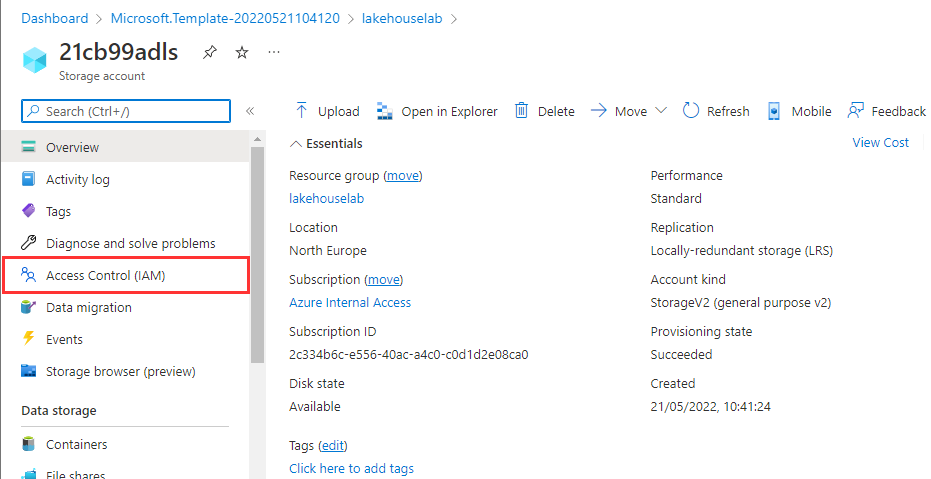
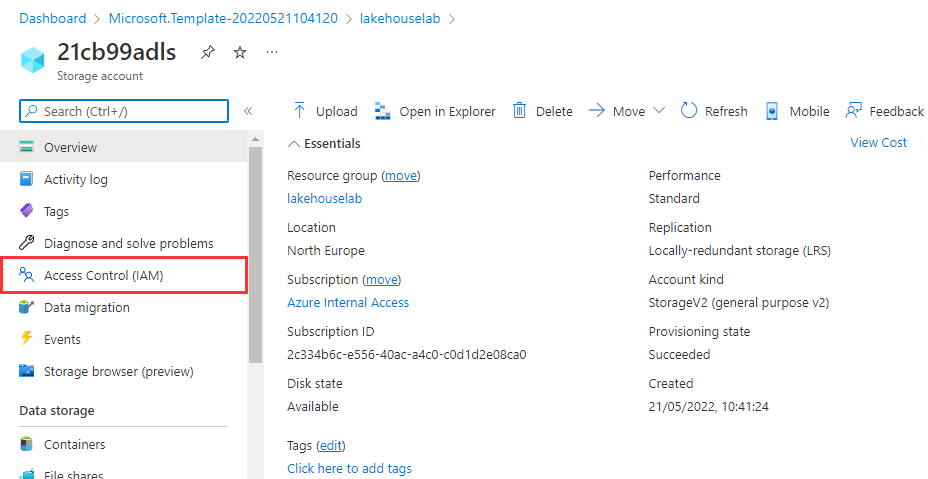
module00 images

diff --git a/modules/module00.md b/modules/module00.md
@@ -31,7 +31,7 @@ The following steps will deploy Azure resources that will be used as part of the
 
 4. The deployment should take approximately 5 minutes to complete. Once you see the message **Your deployment is complete**, click **Go to resource group**.
 
-    <kbd><img src="../images/module00/001.png" alt="Go to resource group"></kbd>
+    <kbd><img src="../images/module00/001.png" alt="Go to resource group" width="50%"></kbd>
 
 <div align="right"><a href="#module-00---lab-environment-setup">↥ back to top</a></div>
 
@@ -41,23 +41,23 @@ The following steps will elevate your account as an Azure AD administrator of th
 
 1. Navigate to the **SQL server**
 
-    <kbd><img src="../images/module00/002.png" alt="ALT"></kbd>
+    <kbd><img src="../images/module00/002.png" alt="ALT" width="50%"></kbd>
 
 2. Select **Azure Active Directory**
 
-    <kbd><img src="../images/module00/003.png" alt="ALT"></kbd>
+    <kbd><img src="../images/module00/003.png" alt="ALT" width="50%"></kbd>
 
 3. Click **Set admin**
 
-    <kbd><img src="../images/module00/004.png" alt="ALT"></kbd>
+    <kbd><img src="../images/module00/004.png" alt="ALT" width="50%"></kbd>
 
 4. Search for your account, select your account, click **Select** 
 
-    <kbd><img src="../images/module00/005.png" alt="ALT"></kbd>
+    <kbd><img src="../images/module00/005.png" alt="ALT" width="50%"></kbd>
 
 5. Click **Save**
 
-    <kbd><img src="../images/module00/006.png" alt="ALT"></kbd>
+    <kbd><img src="../images/module00/006.png" alt="ALT" width="50%"></kbd>
 
 <div align="right"><a href="#module-00---lab-environment-setup">↥ back to top</a></div>
 
@@ -67,35 +67,35 @@ This role assignment is required to ensure that your account has sufficient perm
 
 1. Navigate to the **Storage account**
 
-    <kbd><img src="../images/module00/007.png" alt="ALT"></kbd>
+    <kbd><img src="../images/module00/007.png" alt="ALT" width="50%"></kbd>
 
 2. Select **Access Control (IAM)**
 
-    <kbd><img src="../images/module00/008.png" alt="ALT"></kbd>
+    <kbd><img src="../images/module00/008.png" alt="ALT" width="50%"></kbd>
 
 3. Click **Add role assignment**
 
-    <kbd><img src="../images/module00/009.png" alt="ALT"></kbd>
+    <kbd><img src="../images/module00/009.png" alt="ALT" width="50%"></kbd>
 
 4. Select `Contributor` and click **Next**
 
-    <kbd><img src="../images/module00/010.png" alt="ALT"></kbd>
+    <kbd><img src="../images/module00/010.png" alt="ALT" width="50%"></kbd>
 
 5. Click **Select members**
 
-    <kbd><img src="../images/module00/015.png" alt="ALT"></kbd>
+    <kbd><img src="../images/module00/015.png" alt="ALT" width="50%"></kbd>
 
 6. Search for your account, select your account, click **Select** 
 
-    <kbd><img src="../images/module00/011.png" alt="ALT"></kbd>
+    <kbd><img src="../images/module00/011.png" alt="ALT" width="50%"></kbd>
 
 7. Click **Review + assign**
 
-    <kbd><img src="../images/module00/012.png" alt="ALT"></kbd>
+    <kbd><img src="../images/module00/012.png" alt="ALT" width="50%"></kbd>
 
 8. Click **Review + assign**
 
-    <kbd><img src="../images/module00/013.png" alt="ALT"></kbd>
+    <kbd><img src="../images/module00/013.png" alt="ALT" width="50%"></kbd>
 
 <div align="right"><a href="#module-00---lab-environment-setup">↥ back to top</a></div>
 
@@ -105,35 +105,35 @@ This role assignment is required to read files from the data lake using Azure Sy
 
 1. Navigate to the **Storage account**
 
-    <kbd><img src="../images/module00/007.png" alt="ALT"></kbd>
+    <kbd><img src="../images/module00/007.png" alt="ALT" width="50%"></kbd>
 
 2. Select **Access Control (IAM)**
 
-    <kbd><img src="../images/module00/008.png" alt="ALT"></kbd>
+    <kbd><img src="../images/module00/008.png" alt="ALT" width="50%"></kbd>
 
 3. Click **Add role assignment**
 
-    <kbd><img src="../images/module00/009.png" alt="ALT"></kbd>
+    <kbd><img src="../images/module00/009.png" alt="ALT" width="50%"></kbd>
 
 4. Select `Storage Blob Data Reader` and click **Next**
 
-    <kbd><img src="../images/module00/014.png" alt="ALT"></kbd>
+    <kbd><img src="../images/module00/014.png" alt="ALT" width="50%"></kbd>
 
 5. Click **Select members**
 
-    <kbd><img src="../images/module00/015.png" alt="ALT"></kbd>
+    <kbd><img src="../images/module00/015.png" alt="ALT" width="50%"></kbd>
 
 6. Search for your account, select your account, click **Select** 
 
-    <kbd><img src="../images/module00/011.png" alt="ALT"></kbd>
+    <kbd><img src="../images/module00/011.png" alt="ALT" width="50%"></kbd>
 
 7. Click **Review + assign**
 
-    <kbd><img src="../images/module00/012.png" alt="ALT"></kbd>
+    <kbd><img src="../images/module00/012.png" alt="ALT" width="50%"></kbd>
 
 8. Click **Review + assign**
 
-    <kbd><img src="../images/module00/013.png" alt="ALT"></kbd>
+    <kbd><img src="../images/module00/013.png" alt="ALT" width="50%"></kbd>
 
 <div align="right"><a href="#module-00---lab-environment-setup">↥ back to top</a></div>
 
